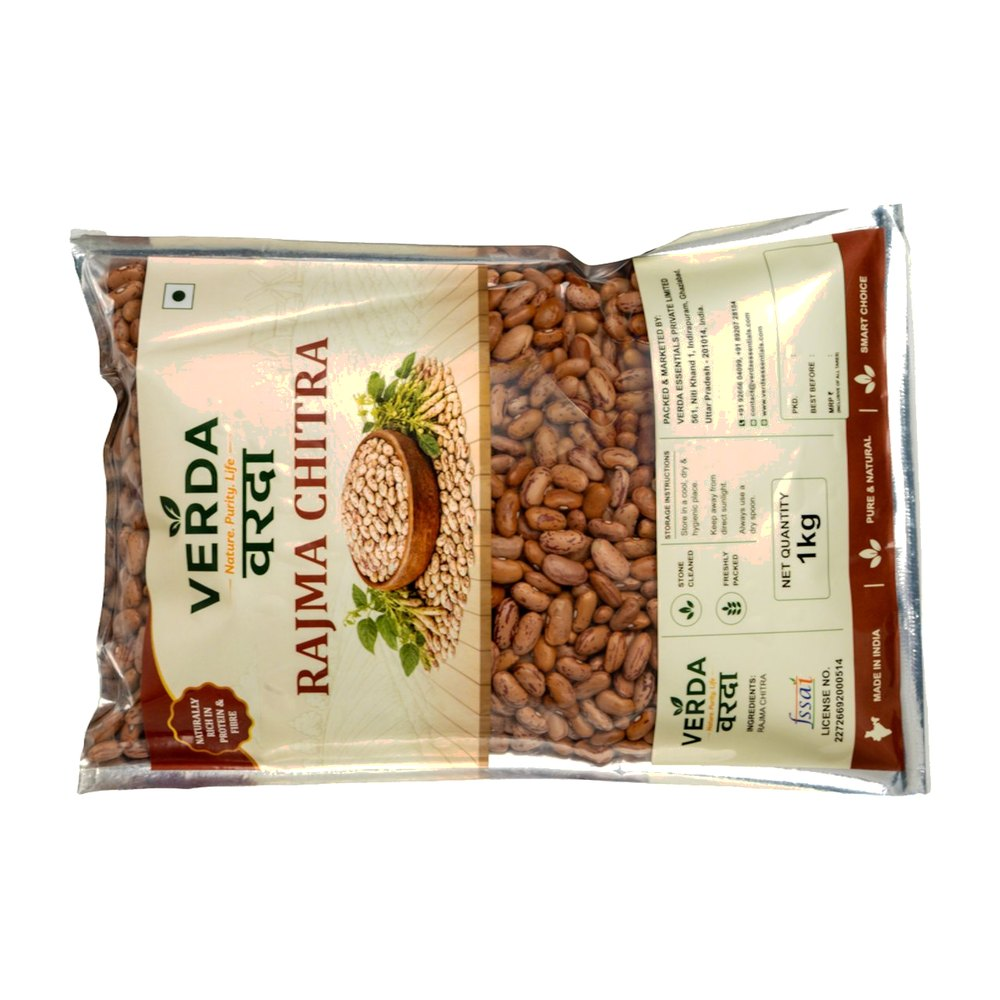
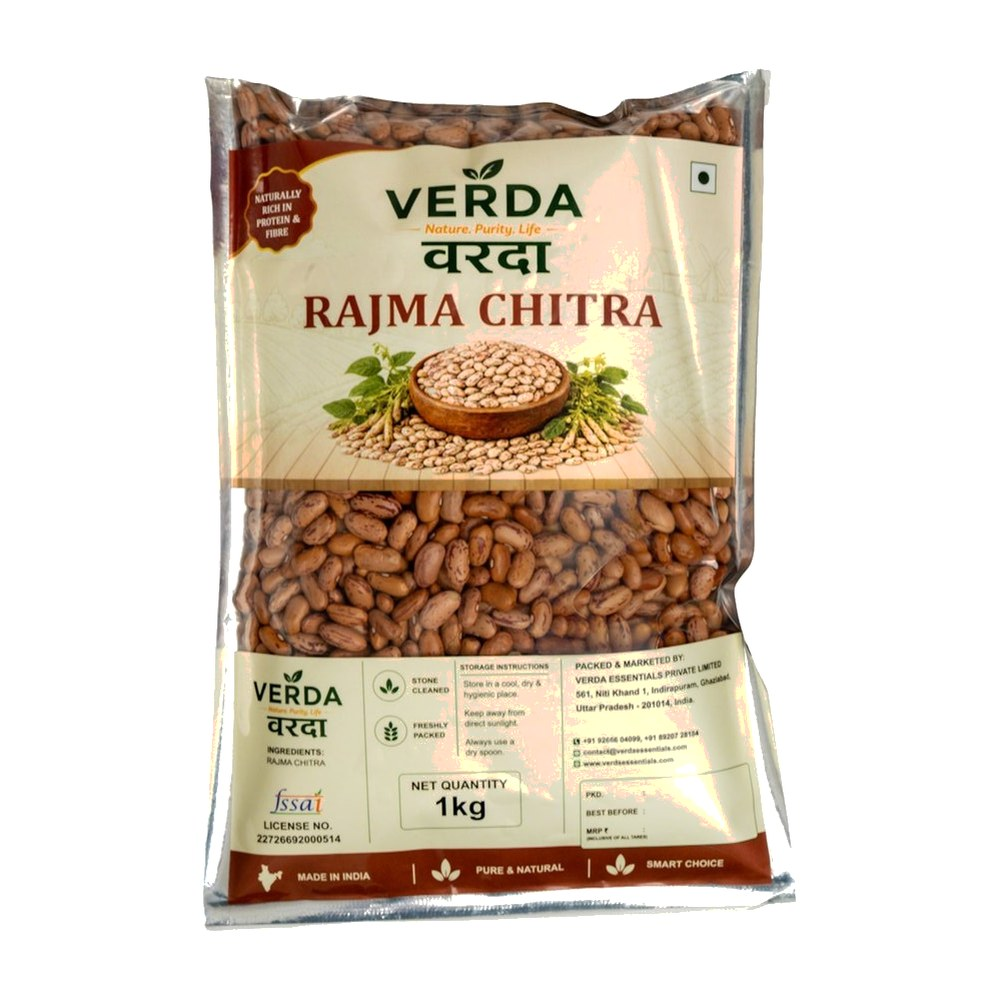
Show pulse and besan packs upright in product photos
Claude-Session: https://claude.ai/code/session_01CBpKPv1eynwwo6Hvaduybs

diff --git a/verda/tools/build_real_catalogue.py b/verda/tools/build_real_catalogue.py
@@ -236,7 +236,11 @@ def build(photos):
         for label, qty, unit, mrp, price, front, back in p["sizes"]:
             vslug = base + "-" + slug(label)
             if front:
-                img = save(trim_square(load(photos, front)), vslug + ".jpg")
+                im = load(photos, front)
+                if p["cat"] == "Atta, Rice & Dals" and im.width > im.height:
+                    # Pulse packs are shot lying sideways: show them standing upright.
+                    im = im.rotate(-90, expand=True)
+                img = save(trim_square(im), vslug + ".jpg")
             else:
                 img = vslug + ".jpg"
                 coming_soon(p["name"].split(" (")[0], label, os.path.join(OUT_IMG, img))
